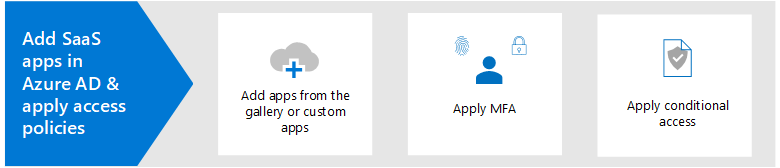
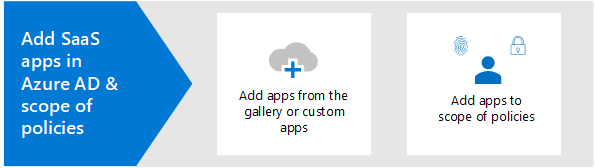
update image and edits

diff --git a/zero-trust/add-saas-apps.md b/zero-trust/add-saas-apps.md
@@ -10,9 +10,7 @@ ms.topic: conceptual
 
 # Step 1: Add SaaS apps to Azure Active Directory and apply access policies
 
-
-
-Many organizations rely on SaaS apps to run business workflows. The ease of use, cost effectiveness, and scalability makes it easy for organizations to adopt the use of SaaS apps. Because of the amount information and access to valuable resources, proper measures must be in place to secure these business-critical apps.
+Many organizations rely on SaaS apps to run business workflows. The ease of use, cost effectiveness, and scalability makes it a viable solution for organizations to adopt. Because of the amount information and access to valuable resources, proper measures must be in place to secure these business-critical apps.
 
 :::image type="content" source="media/step-1-add-saas-apps.png" alt-text="Overview image of adding SaaS apps to Azure AD and adding access policies":::
 
@@ -21,11 +19,10 @@ Add apps in Azure Active Directory (Azure AD) so that you can monitor and config
 
 After adding apps to Azure AD, you can configure how apps are accessed by including them in the scope of your multifactor authentication (MFA) and conditional access policies. 
 
+If you already have Defender for Cloud Apps deployed, you can discover SaaS apps that your organization is using by using this tool. 
 
 
 ## Adding apps in Azure AD
-Azure AD has an application gallery that contains a collection of SaaS apps that have been pre-integrated with Azure AD. This is the easiest way to start managing apps. All you need to do is sign into Azure Active Directory and choose from applications from specific cloud platforms, featured applications, or you search for the application that you want to use.
-
 
 Adding apps in Azure AD helps you leverage one or more of the services it provides including:
 
@@ -39,10 +36,18 @@ Adding apps in Azure AD helps you leverage one or more of the services it provid
 * Directory schema extension attributes to store additional data in Azure AD 
 
 
+There are several ways you can add apps in Azure AD. The easiest way to start managing apps is to use the application gallery. You also have the option of adding custom apps. This section will guide you through both ways. 
+
+
+### Add apps from the application gallery
+
+Azure AD has an application gallery that contains a collection of SaaS apps that have been pre-integrated with Azure AD. All you need to do is sign into Azure Active Directory and choose from applications from specific cloud platforms, featured applications, or you search for the application that you want to use.
+
+
 For more information, see [Add an enterprise application](/azure/active-directory/manage-apps/add-application-portal#add-an-enterprise-application) and [Overview of Azure Active Directory application gallery](/azure/active-directory/manage-apps/overview-application-gallery).
 
 
-## Adding custom apps in Azure AD app gallery
+### Adding custom apps in Azure AD app gallery
 You can develop your own application and register it in Azure AD. Registering it with Azure AD lets you leverage the security features that the tenant provides. You can register your application in **App Registrations**, or you can register it using the **Create your own application** link when adding a new application in **Enterprise applications**.
 
 
@@ -50,7 +55,7 @@ For more information, see  [Request to publish your application in the Azure Act
 
 
 
-## Applying  multifactor authentication and conditional access
+## Applying access policies on apps
 Azure AD multifactor authentication (MFA) helps safeguard access to data and applications, providing another layer of security by using a second form of authentication. It provides additional security by requiring a second form of verification and delivers strong authentication. There are many methods that can be used for a second-factor authentication.
 
 
